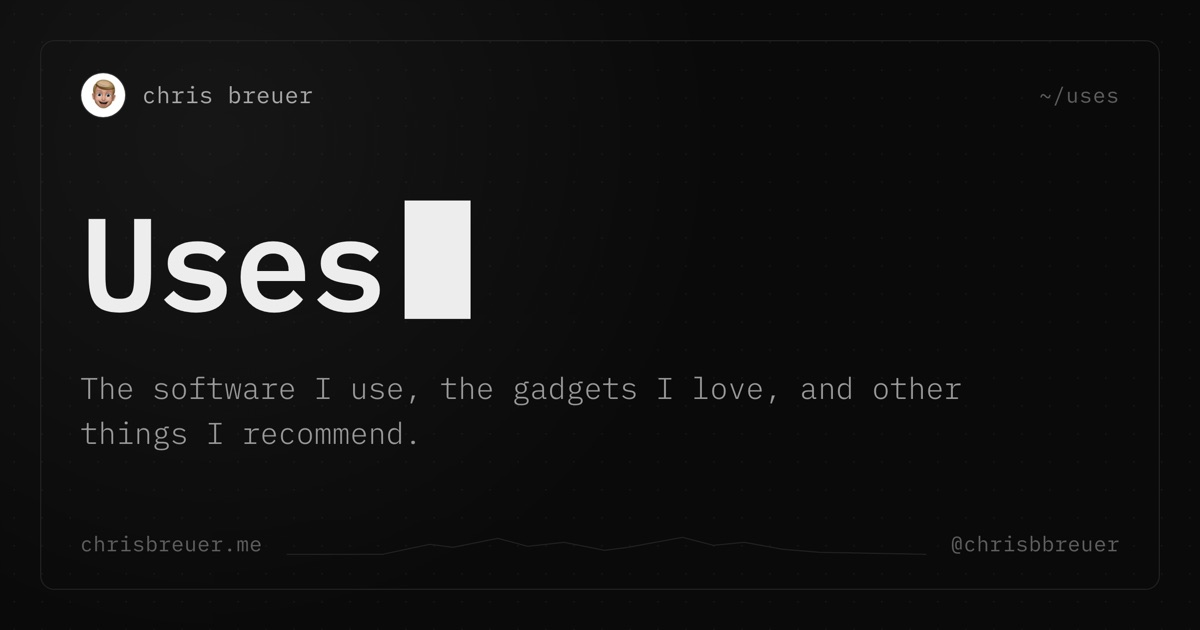
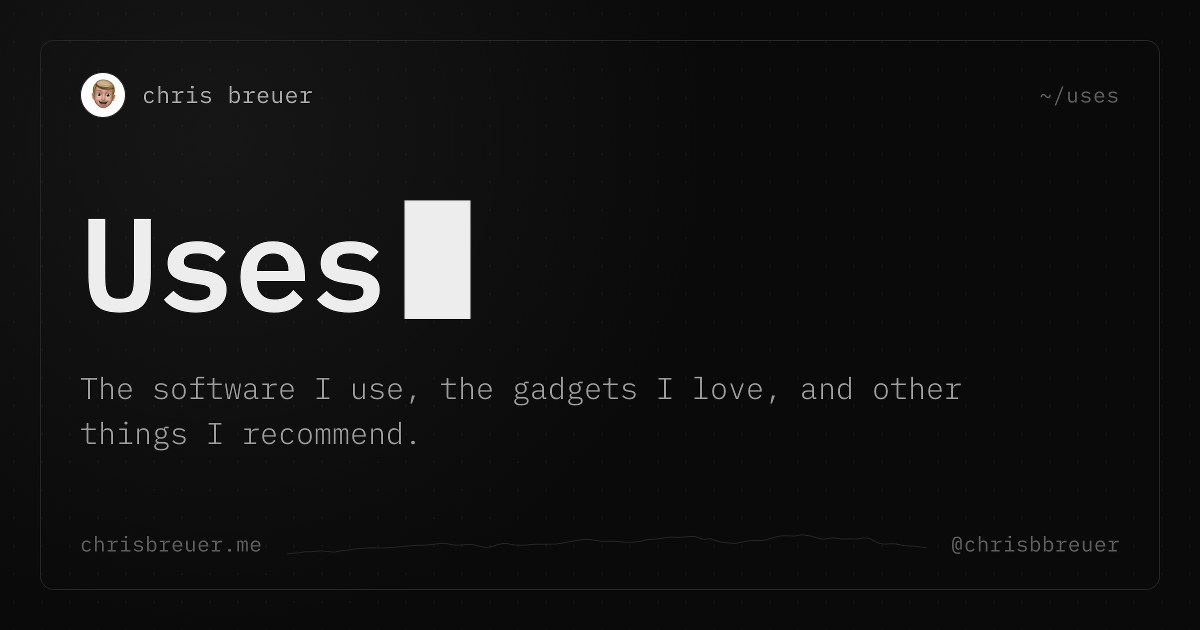
feat(blog): widen the framing, and give posts their own share card
"Notes on developer tooling, TypeScript, Bun, and building Stacks" was a
narrower brief than what actually gets written. The one post there is
about fifteen years of tooling and two years of planning to run 2,650
miles and why they turn out to be the same problem, which that sentence
does not cover. The lead and the description now say both halves, the
way the rest of the site does.

Posts also shared as the generic "Blog" card, which tells a reader
nothing about what they are being handed. Each one now gets a card with
its own title and description on it, built from the markdown by
build-og.ts, so writing a post is all it takes to get one. The layout
picks `blog-<slug>.jpg` up when it exists and falls back to the generic
card when it does not.

A post is also an article rather than a page, so it says so, with the
published date and author the crawlers that care about freshness read.

Two things this turned up. `ogType` computed in the layout from a value
the post sets came out "website" every time: a `const` of that name in
the layout shadows what the page set, and pagePath only works because
the layout never declares it and reads it behind a typeof guard. Same
treatment here.

And the rule along the bottom of every card was a second, hand-drawn
mountain range, from before the footer's became the real San Gabriel
crest. It is now derived from the same path, rescaled, so the two cannot
drift apart. All eight cards regenerated.

diff --git a/scripts/build-og.ts b/scripts/build-og.ts
@@ -5,7 +5,7 @@
 // This writes self-contained HTML into public/_og/, which is rendered through
 // the in-app browser at 2x and downscaled to public/images/og/<slug>.jpg.
 // The _og/ scratch dir is removed once the JPGs are captured.
-import { mkdirSync, writeFileSync } from 'node:fs'
+import { existsSync, mkdirSync, readdirSync, readFileSync, writeFileSync } from 'node:fs'
 import { join } from 'node:path'
 
 interface Card {
@@ -172,13 +172,62 @@ function html(c: Card): string {
     </div>
     <div class="foot">
       <span>chrisbreuer.me</span>
-      <svg class="rule" viewBox="0 0 600 22" preserveAspectRatio="none" aria-hidden="true"><path d="M0 21 L90 21 L134 11 L156 14 L198 5 L226 13 L260 9 L298 17 L320 14 L371 4 L400 12 L429 9 L465 16 L500 19 L600 21" vector-effect="non-scaling-stroke" /></svg>
+      <svg class="rule" viewBox="0 0 600 22" preserveAspectRatio="none" aria-hidden="true"><path d="${ridgePath}" vector-effect="non-scaling-stroke" /></svg>
       <span>@chrisbbreuer</span>
     </div>
   </div>
 </body>
 </html>`
 }
+
+// A card per post, read out of the markdown, so writing one is all it takes
+// to get a share image with its own title on it. Without this every post
+// shared as the generic "Blog" card, which tells a reader nothing about what
+// they are being handed.
+const blogDir = join(import.meta.dir, '..', 'content', 'blog')
+if (existsSync(blogDir)) {
+  for (const file of readdirSync(blogDir).filter(name => name.endsWith('.md')).sort()) {
+    const slug = file.replace(/\.md$/, '')
+    const raw = readFileSync(join(blogDir, file), 'utf-8')
+    const front = raw.match(/^---\n([\s\S]*?)\n---/)
+    if (!front) continue
+    const field = (name: string): string => {
+      const line = front[1].split('\n').find(entry => entry.trim().startsWith(`${name}:`))
+      if (!line) return ''
+      return line.slice(line.indexOf(':') + 1).trim().replace(/^['"]|['"]$/g, '')
+    }
+    const title = field('title')
+    if (!title) continue
+    cards.push({
+      slug: `blog-${slug}`,
+      path: `~/blog/${slug}`,
+      title,
+      desc: field('description') || field('excerpt') || 'Writing by Chris Breuer.',
+    })
+  }
+}
+
+// The rule along the bottom of every card is the same San Gabriel crest the
+// site's footer draws, rescaled from its 1200x32 viewBox into the card's
+// 600x22 one. Read from the partial so the two can never drift into being
+// two different mountain ranges.
+function cardRidgePath(): string {
+  const partial = join(import.meta.dir, '..', 'resources', 'views', 'partials', 'footer.stx')
+  const match = readFileSync(partial, 'utf-8').match(/<path d="([^"]+)"/)
+  if (!match) return ''
+  return match[1]
+    .split(/(?=[ML])/)
+    .map((step) => {
+      const command = step[0]
+      const [x, y] = step.slice(1).trim().split(/\s+/).map(Number)
+      if (!Number.isFinite(x) || !Number.isFinite(y)) return ''
+      return `${command}${((x / 1200) * 600).toFixed(1)} ${((y / 32) * 22).toFixed(1)}`
+    })
+    .filter(Boolean)
+    .join(' ')
+}
+
+const ridgePath = cardRidgePath()
 
 const outDir = join(import.meta.dir, '..', 'public', '_og')
 mkdirSync(outDir, { recursive: true })
